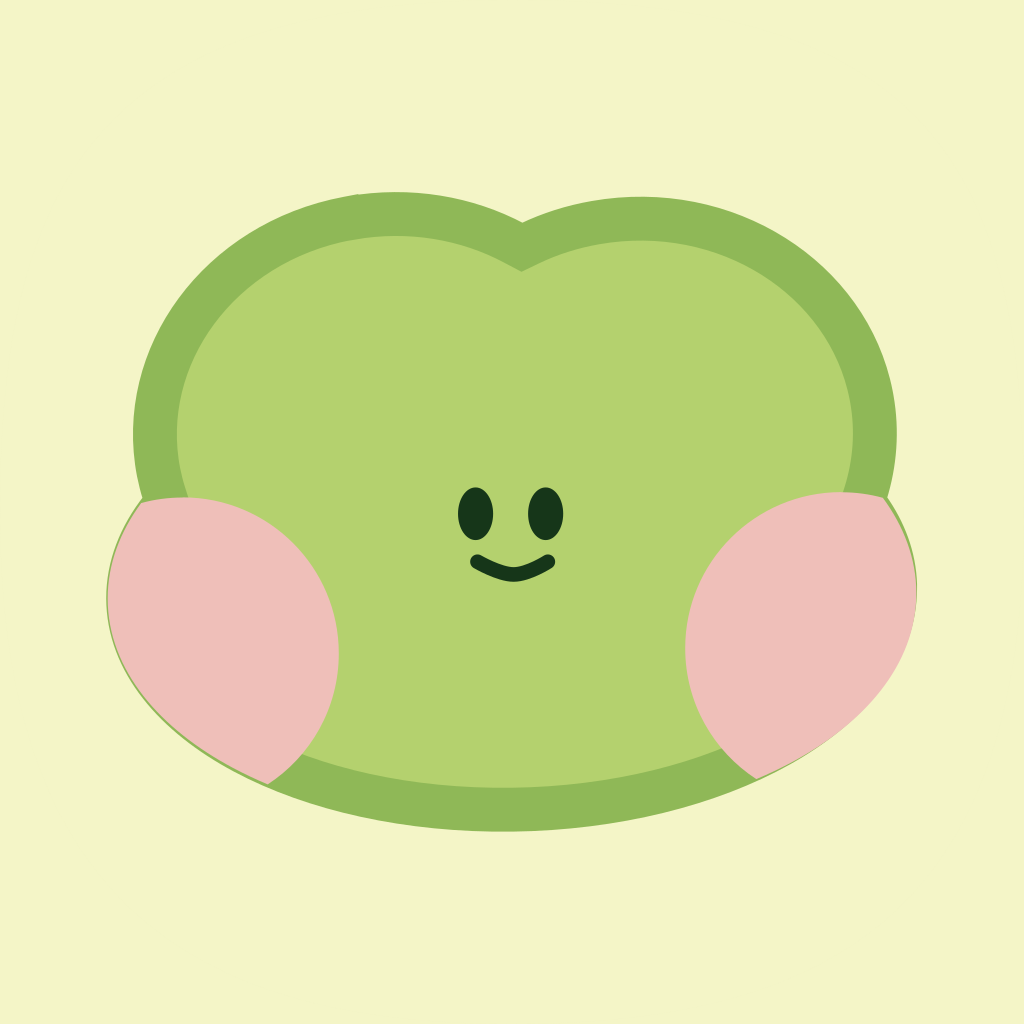
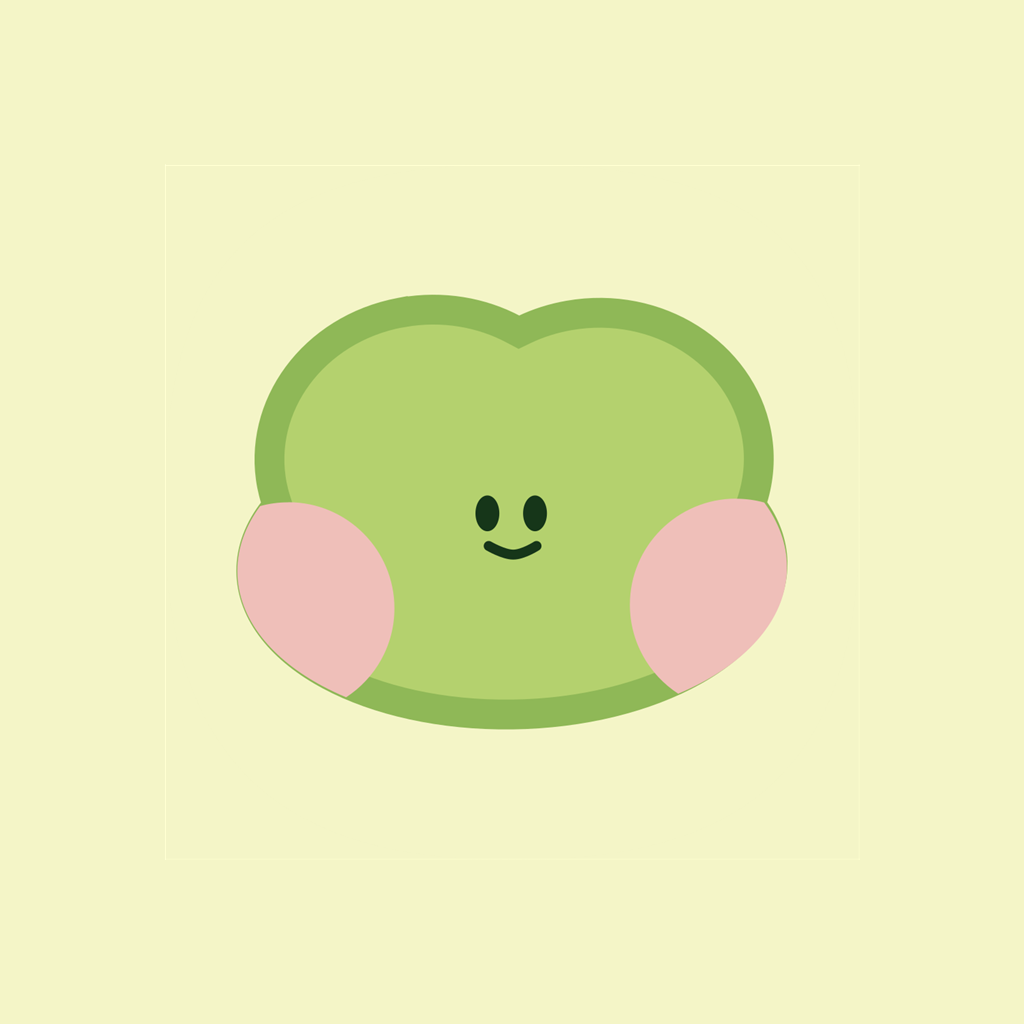
nfc 작업 완료

Changed region(s): [[0.0938, 0.1875, 0.9062, 0.8125], [0.4375, 0.4688, 0.5625, 0.5625]]

diff --git a/src/components/ui/BottomButton.tsx b/src/components/ui/BottomButton.tsx
@@ -1,9 +1,9 @@
 /**
- * BottomButton — 피그마 "bottom" (677:768) wrapper 사양.
+ * BottomButton — 피그마 "bottom" (677:768 / 844:2803) wrapper 사양.
  *
  * 피그마 구조:
  *   bottom (677:768) — items-start
- *   └─ bottom (679:852) — w:360, h:106, pt:10, pb:45, px:20
+ *   └─ bottom (679:852) — w:360, pt:10, pb:60, px:20
  *      └─ BottomButton (primary, w:full, py:19, rounded:16) — h ≈ 56
  *
  * 사용처: 화면 하단 CTA — "다음", "완료", "작성 완료" 등.
@@ -14,7 +14,7 @@
  *   - 화면 하단에 absolute fixed.
  *   - 좌우 20dp 패딩 → 내부 버튼 w:full.
  *   - 상단 10dp 패딩 (콘텐츠와의 안전 마진).
- *   - 하단 45dp 패딩 — figma 사양 (네비게이션 바 위로 띄우는 의도 포함).
+ *   - 하단 60dp 패딩 — figma 844:2803 변경 (이전 45 → 60, 네비바 안전 여유 ↑).
  *   - 내부 버튼은 공용 Button 컴포넌트 (variant primary, size lg, full width).
  *
  * 사용 예:
@@ -50,9 +50,9 @@ export function BottomButton({
       style={[
         styles.container,
         {
-          // figma 677:768 — pt:10, pb:45, px:20
+          // figma 844:2803 — pt:10, pb:60, px:20
           paddingTop: hp(10),
-          paddingBottom: hp(45),
+          paddingBottom: hp(60),
           paddingHorizontal: wp(20),
           bottom: bottomOffset,
         },